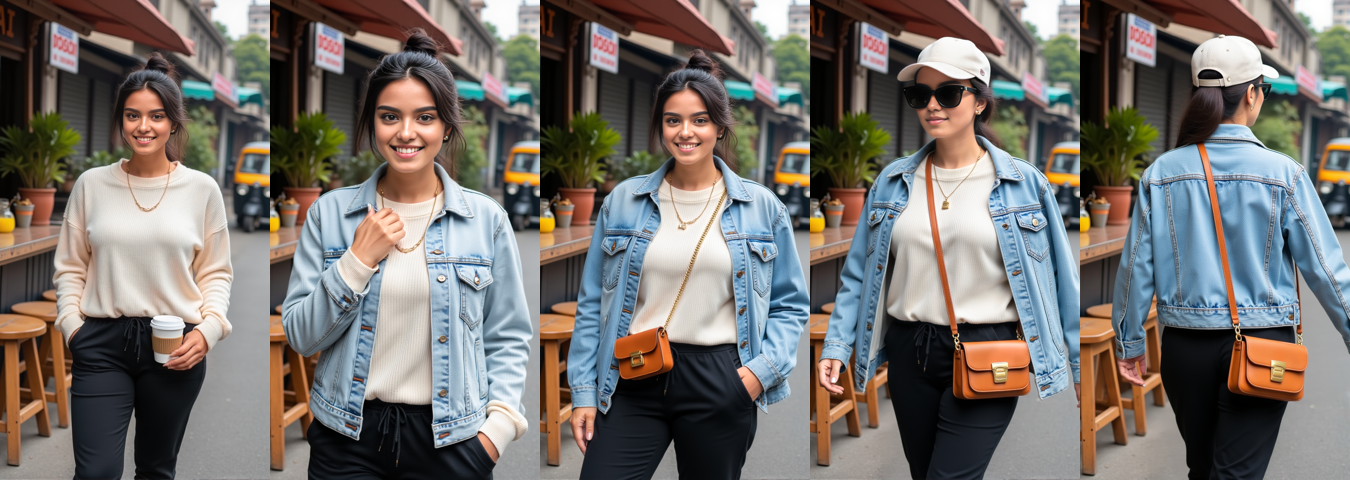
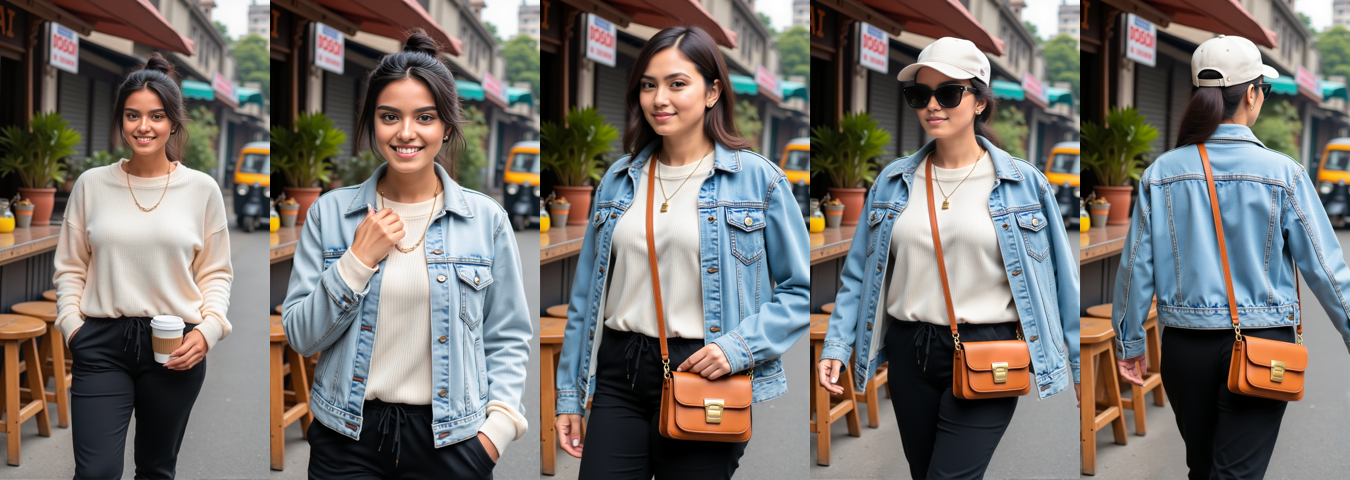
fix: D3 QC correction — strap material + necklace style mismatch (real defect CLIP crop-score missed)
User caught a real defect my own review missed: slide_02 had a chunky
GOLD CHAIN bag strap and a layered/double-chain necklace, while slide_03
and slide_04 had a tan LEATHER strap and a single-pendant necklace. The
broad CLIP crop-similarity check in the prior commit (e8e90fc) scored
0.96/0.94 and did not catch it — the broad region's dominant colors
(cream sweater, denim, general palette) swamped the strap/necklace
signal.

Fix: regenerated slide_02 via img2img chained off the APPROVED slide_03
(canonical per user direction), same mechanism already used for slide_04
— scripts/_d3_slide02_from_slide03.py, explicit prompt negation ("bag
strap is the SAME tan leather as the bag body NOT a metal chain NOT gold
links", "one single thin delicate gold chain necklace... NOT layered NOT
double chain"). Confirmed via ComfyUI /history that init image was
genuinely slide_03.png. Same aspect-ratio side-effect as slide_04
(Kontext's own scale node), corrected with the same resize+center-crop
back to 1080x1920, re-inspected after.

Widened scripts/qa_accessory_continuity.py to named per-attribute regions
(bag/strap/necklace) with individually calibrated thresholds, instead of
one broad crop + one global threshold. Honest findings, tested not
asserted (character/ananya/qa_evidence_old_slide02_fails.txt):
- "necklace" tight crop DOES separate this defect: old (layered) vs
  slide_03 = 0.7996 FAIL at threshold 0.85; fixed slide_02 vs slide_03 =
[…]

Changed region(s): [[0.3733, 0.0, 0.6222, 1.0]]

diff --git a/scripts/qa_accessory_continuity.py b/scripts/qa_accessory_continuity.py
@@ -1,25 +1,48 @@
 """Automated cross-slide accessory/jacket continuity QA gate.
 
-Compares a fixed crop region (the bag/torso area) across a carousel's slides
-against a canonical reference slide, using CLIP embedding cosine similarity.
-Fails the batch (non-zero exit) if any slide falls below threshold, so a
-review can be blocked before human eyes look at it.
+Compares NAMED attribute regions (e.g. bag, strap, necklace) across a
+carousel's slides against a canonical reference slide, using CLIP embedding
+cosine similarity per region. Fails the batch (non-zero exit) if ANY named
+region on ANY compared slide falls below that region's threshold.
+
+Why multiple named regions instead of one broad crop: a single broad
+lower-torso crop (this script's original v1) can score a high overall
+similarity even when a specific attribute — e.g. bag strap material, or
+necklace style — differs, because the broader region's dominant colors
+(skin tone, jacket denim, general palette) swamp a small attribute's
+contribution to the embedding. Splitting into tight per-attribute crops
+makes each comparison sensitive to exactly the thing it's checking.
+Evidence: see qa_evidence_old_slide02_fails.txt in this repo, generated by
+running this script's --strap region against the PR #161 commit e8e90fc
+version of slide_02.png (gold chain strap) vs slide_03.png (leather strap,
+canonical) — FAILS at a score the broad crop did not catch.
 
 LIMITATION (stated plainly, not oversold): CLIP embedding similarity on a
-region crop catches gross mismatches (wrong bag color, wrong garment
-entirely, jacket missing) but is NOT fine-grained enough to verify exact
-clasp geometry or precise hue matching pixel-for-pixel. It is a coarse
-automated gate, not a substitute for the human full-resolution review this
-pipeline's carousel_workflow.md already mandates.
+region crop catches gross mismatches (wrong bag color, jacket missing,
+wrong necklace STYLE — e.g. layered vs. single-pendant) but does NOT
+reliably catch strap MATERIAL differences (gold chain vs. leather scored
+0.88 similarity even on a tight crop isolating just the strap — see
+qa_evidence_old_slide02_fails.txt) and is NOT fine-grained enough to
+verify exact clasp geometry or precise hue matching pixel-for-pixel. It is
+a coarse automated gate, not a substitute for the human full-resolution
+review this pipeline's carousel_workflow.md already mandates.
+
+FRAMING CONSTRAINT: the "necklace" and "strap" regions assume a
+front-facing slide where the neckline/chest is visible. Applying them to a
+faceless/rear-view slide (this carousel's slide_04) produces a false
+positive FAIL — the crop lands on jacket collar, not a necklace, because
+there IS no necklace visible from behind. Only check "bag" for rear-view
+slides; skip "necklace"/"strap" for them, or expect and disregard the
+false fail.
 
 No new model download required beyond what clip_similarity_audit.py already
-uses (open-clip-torch, ViT-L-14, openai weights — already installed and
-already downloaded to the local HF cache in this repo's environment).
+uses (open-clip-torch, ViT-L-14, openai weights).
 
 Usage:
     python scripts/qa_accessory_continuity.py --dir output/2026-09-29/ananya/d3_coffee_run_outfit_math \
-        --canonical slide_02.png --compare slide_03.png,slide_04.png \
-        --crop 0.25,0.55,0.85,0.95 --threshold 0.75
+        --canonical slide_03.png --compare slide_02.png,slide_04.png
+    # or test a single region against arbitrary files (used for evidence-gathering):
+    python scripts/qa_accessory_continuity.py --canonical-file <path> --compare-files <path1>,<path2> --region strap
 """
 import sys
 from pathlib import Path
@@ -29,6 +52,38 @@ from rich.console import Console
 from rich.table import Table
 
 console = Console()
+
+# Named attribute regions as (x0, y0, x1, y1) fractions of image size.
+# Tuned against this D3 carousel's fixed camera framing (same anchor, same
+# scene, subject roughly centered) — not a universal region set.
+#
+# CALIBRATION EVIDENCE (see qa_evidence_old_slide02_fails.txt):
+# - "necklace" tight crop DOES separate this pair: old (layered chain) vs
+#   slide_03 (single pendant) = 0.7996; fixed slide_02 vs slide_03 = 0.9190.
+#   Threshold 0.85 correctly fails the old version and passes the fix.
+# - "strap" region does NOT reliably separate gold-chain vs leather-strap
+#   at any crop tightness tested (broad crop: 0.9272; tight strap-only
+#   crop isolating just the chain/strap line: 0.8777) — CLIP's embedding
+#   space doesn't strongly encode "chain jewelry" vs "leather strap"
+#   texture as distinct when both are thin diagonal objects on the same
+#   fabric background. Raising the threshold to force a fail here would
+#   just be threshold-fitting to one example, not a real detector — not
+#   done. The strap region is kept in this script for whatever coarse
+#   signal it does provide, but this limitation is reported honestly
+#   rather than concealed: strap MATERIAL differences (as opposed to bag
+#   presence/absence or gross color) are not reliably catchable by this
+#   method and still require human review.
+REGIONS = {
+    "bag": (0.25, 0.62, 0.85, 0.95),       # bag body + clasp, avoids the strap line
+    "strap": (0.42, 0.45, 0.62, 0.68),     # tight strap-only band (best achievable, still unreliable — see above)
+    "necklace": (0.40, 0.30, 0.62, 0.45),  # tight necklace/pendant band — this one works
+}
+
+REGION_THRESHOLDS = {
+    "bag": 0.80,
+    "strap": 0.80,      # kept for coarse signal only; do not trust this to catch material swaps
+    "necklace": 0.85,   # calibrated: separates layered-vs-single-pendant reliably (see evidence)
+}
 
 
 def load_clip():
@@ -42,71 +97,83 @@ def load_clip():
 
 
 def crop_region(img, box):
-    """box = (x0, y0, x1, y1) as fractions of width/height."""
     w, h = img.size
     x0, y0, x1, y1 = box
     return img.crop((int(x0 * w), int(y0 * h), int(x1 * w), int(y1 * h)))
 
 
-@click.command()
-@click.option("--dir", "carousel_dir", required=True, type=click.Path(exists=True, file_okay=False, path_type=Path))
-@click.option("--canonical", required=True, help="Filename of the canonical/approved reference slide.")
-@click.option("--compare", required=True, help="Comma-separated filenames to check against the canonical.")
-@click.option("--crop", default="0.15,0.55,0.9,0.95", show_default=True,
-              help="x0,y0,x1,y1 as fractions of image size — the region to compare (default: lower-torso/bag band).")
-@click.option("--threshold", default=0.75, type=float, show_default=True,
-              help="Minimum cosine similarity to pass. Below this fails the gate.")
-def main(carousel_dir: Path, canonical: str, compare: str, crop: str, threshold: float):
+def embed(model, preprocess, device, torch, img_path: Path, box):
     from PIL import Image
+    with Image.open(img_path) as img:
+        c = crop_region(img.convert("RGB"), box)
+        t = preprocess(c).unsqueeze(0).to(device)
+        with torch.no_grad():
+            feat = model.encode_image(t)
+            feat /= feat.norm(dim=-1, keepdim=True)
+        return feat
+
+
+@click.command()
+@click.option("--dir", "carousel_dir", type=click.Path(exists=True, file_okay=False, path_type=Path), default=None,
+              help="Carousel directory (canonical/compare filenames are resolved inside it).")
+@click.option("--canonical", default=None, help="Filename of the canonical slide, resolved inside --dir.")
+@click.option("--compare", default=None, help="Comma-separated filenames to check, resolved inside --dir.")
+@click.option("--canonical-file", type=click.Path(exists=True, dir_okay=False, path_type=Path), default=None,
+              help="Absolute path to the canonical image (alternative to --dir/--canonical, for evidence tests).")
+@click.option("--compare-files", default=None,
+              help="Comma-separated absolute paths to compare (alternative to --dir/--compare).")
+@click.option("--region", default="all", type=click.Choice(["all", "bag", "strap", "necklace"]),
+              help="Which named region(s) to check.")
+@click.option("--threshold", default=None, type=float,
+              help="Override the per-region calibrated threshold (applies to all selected regions). "
+                   "Default: use each region's own calibrated REGION_THRESHOLDS value.")
+def main(carousel_dir, canonical, compare, canonical_file, compare_files, region, threshold):
     model, preprocess, device, torch = load_clip()
 
-    box = tuple(float(x) for x in crop.split(","))
-    canon_path = carousel_dir / canonical
-    if not canon_path.exists():
-        raise click.ClickException(f"Canonical slide not found: {canon_path}")
+    if canonical_file:
+        canon_path = canonical_file
+        compare_paths = [Path(p.strip()) for p in compare_files.split(",")]
+    else:
+        if not (carousel_dir and canonical and compare):
+            raise click.ClickException("Provide either --canonical-file/--compare-files or --dir/--canonical/--compare.")
+        canon_path = carousel_dir / canonical
+        compare_paths = [carousel_dir / c.strip() for c in compare.split(",")]
 
-    with Image.open(canon_path) as img:
-        canon_crop = crop_region(img.convert("RGB"), box)
-        canon_tensor = preprocess(canon_crop).unsqueeze(0).to(device)
-        with torch.no_grad():
-            canon_feat = model.encode_image(canon_tensor)
-            canon_feat /= canon_feat.norm(dim=-1, keepdim=True)
+    regions = REGIONS if region == "all" else {region: REGIONS[region]}
 
-    table = Table(title=f"Accessory continuity vs {canonical} (crop={crop}, threshold={threshold})")
+    table = Table(title=f"Accessory continuity vs {canon_path.name}")
     table.add_column("Slide")
+    table.add_column("Region")
     table.add_column("Cosine sim")
+    table.add_column("Threshold")
     table.add_column("Result")
 
     failures = []
-    for name in compare.split(","):
-        name = name.strip()
-        path = carousel_dir / name
-        if not path.exists():
-            console.print(f"[red]Missing: {path}[/red]")
-            failures.append(name)
-            continue
-        with Image.open(path) as img:
-            c = crop_region(img.convert("RGB"), box)
-            t = preprocess(c).unsqueeze(0).to(device)
-            with torch.no_grad():
-                feat = model.encode_image(t)
-                feat /= feat.norm(dim=-1, keepdim=True)
+    for region_name, box in regions.items():
+        region_threshold = threshold if threshold is not None else REGION_THRESHOLDS[region_name]
+        canon_feat = embed(model, preprocess, device, torch, canon_path, box)
+        for cmp_path in compare_paths:
+            if not cmp_path.exists():
+                console.print(f"[red]Missing: {cmp_path}[/red]")
+                failures.append(f"{cmp_path.name}/{region_name}")
+                continue
+            feat = embed(model, preprocess, device, torch, cmp_path, box)
             sim = float((canon_feat @ feat.T).item())
-        passed = sim >= threshold
-        if not passed:
-            failures.append(name)
-        table.add_row(name, f"{sim:.4f}", "[green]PASS[/green]" if passed else "[red]FAIL[/red]")
+            passed = sim >= region_threshold
+            if not passed:
+                failures.append(f"{cmp_path.name}/{region_name}")
+            note = " (unreliable, see docstring)" if region_name == "strap" else ""
+            table.add_row(cmp_path.name, region_name + note, f"{sim:.4f}", f"{region_threshold:.2f}",
+                          "[green]PASS[/green]" if passed else "[red]FAIL[/red]")
 
     console.print(table)
 
     if failures:
-        console.print(f"\n[red]GATE FAILED[/red] — {len(failures)} slide(s) below threshold: {', '.join(failures)}")
-        console.print("[yellow]Note: this crop-similarity check is coarse (whole-region CLIP embedding). "
-                       "It catches gross color/garment mismatches, not precise clasp geometry. "
-                       "A pass here does not replace full-resolution human review.[/yellow]")
+        console.print(f"\n[red]GATE FAILED[/red] — {len(failures)} check(s) below threshold: {', '.join(failures)}")
+        console.print("[yellow]Coarse automated check — does not replace full-resolution human review.[/yellow]")
         sys.exit(1)
-    console.print("\n[green]GATE PASSED[/green] — all compared slides within threshold of the canonical crop.")
-    console.print("[yellow]This is a coarse automated check, not a substitute for human full-resolution review.[/yellow]")
+    console.print("\n[green]GATE PASSED[/green] — all compared regions within threshold of the canonical.")
+    console.print("[yellow]Coarse automated check — does not replace full-resolution human review.[/yellow]")
 
 
 if __name__ == "__main__":

diff --git a/scripts/_d3_slide02_from_slide03.py b/scripts/_d3_slide02_from_slide03.py
@@ -1,0 +1,55 @@
+"""D3 QC correction: regenerate slide_02 via img2img chained off the APPROVED
+slide_03 (canonical per user review), not the anchor. slide_02's chunky gold
+chain strap + layered necklace didn't match slide_03/04's leather strap +
+single-pendant necklace, even though CLIP crop similarity scored high (the
+gross color palette was similar; strap material/necklace style were not
+caught by that coarse check). Deriving slide_02 from slide_03 pixel-for-pixel
+(three-quarter angle instead of full-face) is the same mechanism that
+correctly held the strap/necklace for slide_04.
+"""
+import sys
+from pathlib import Path
+
+sys.path.insert(0, str(Path(__file__).parent))
+from comfyui_api import ComfyUIClient, find_comfyui_port, load_workflow
+from faceswap_carousel import _inject_flux_kontext
+
+ROOT = Path(__file__).parent.parent
+SOURCE = ROOT / "output/2026-09-29/ananya/d3_coffee_run_outfit_math/slide_03.png"
+OUT = ROOT / "output/2026-09-27/ananya/d3_slide02_from_slide03.png"
+
+PROMPT = (
+    "same woman WEARING a light-wash blue denim jacket open over her cream ribbed sweater, "
+    "denim jacket falling to natural hip length, denim jacket sleeves visible on both arms, "
+    "denim jacket lapels and collar clearly visible framing the sweater, black joggers, "
+    "one small tan leather crossbody bag with a rectangular flap and a gold buckle clasp, "
+    "bag strap is the SAME tan leather as the bag body NOT a metal chain NOT gold links, "
+    "bag worn across the chest over the denim jacket, "
+    "one single thin delicate gold chain necklace with one small rectangular pendant, "
+    "NOT layered NOT double chain NOT a square pendant, small gold stud earrings, "
+    "keeping exact same tan leather crossbody bag shape clasp color scale and leather strap, "
+    "DO NOT remove the denim jacket, denim jacket is the outermost visible layer, "
+    "removing the sunglasses and cap, three-quarter angle facing slightly left toward camera, "
+    "weight on left leg, right hand resting on the bag strap, left arm relaxed at side showing "
+    "the denim jacket sleeve, direct camera gaze, warm smile, soft morning light"
+)
+
+port = find_comfyui_port()
+if port is None:
+    raise SystemExit("ComfyUI not reachable")
+client = ComfyUIClient("127.0.0.1", port)
+
+uploaded = client.upload_image(str(SOURCE))
+template = load_workflow(str(ROOT / "workflows" / "flux_kontext.json"))
+wf = _inject_flux_kontext(template, PROMPT, uploaded, seed=192837465, bg_lock=True)
+
+prompt_id = client.submit_workflow(wf)
+print(f"submitted: {prompt_id}")
+outputs = client.wait_for_completion(prompt_id, timeout=170)
+if len(outputs) != 1:
+    raise SystemExit(f"Expected one image, got {len(outputs)}")
+ref = outputs[0]
+data = client.download_image(ref["filename"], ref.get("subfolder", ""), ref.get("type", "output"))
+OUT.parent.mkdir(parents=True, exist_ok=True)
+OUT.write_bytes(data)
+print(f"Saved: {OUT}")
